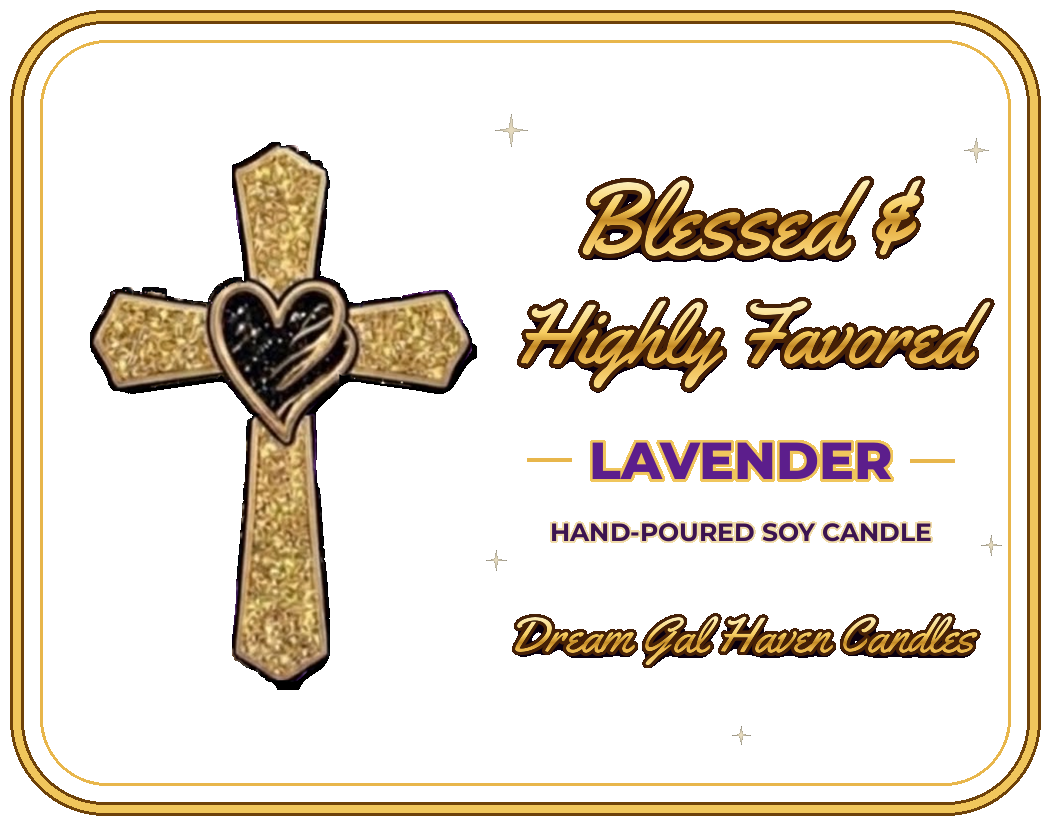
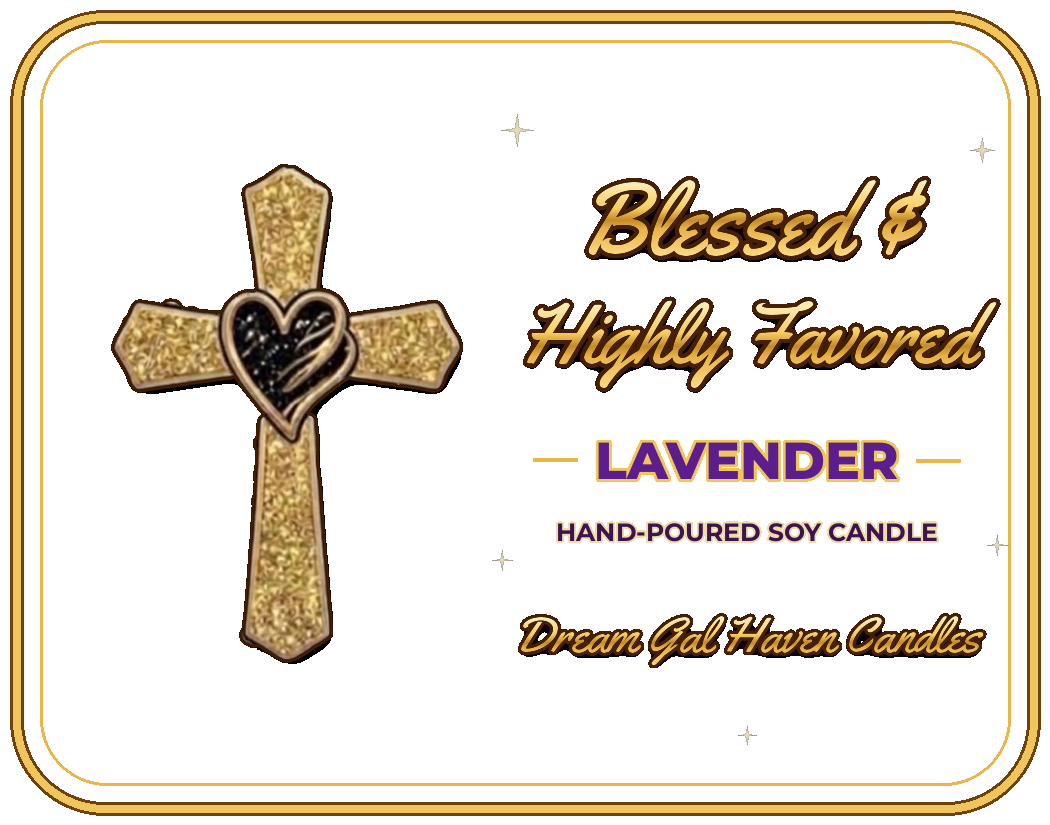
Candle label: redraw cross with clean, even outline (solid, clear, sticker sheet)
Claude-Session: https://claude.ai/code/session_013Lmse4UUbVMfZjWLLcf5XL

diff --git a/designs/candle-label/build.py b/designs/candle-label/build.py
@@ -40,9 +40,47 @@ M[y+bh//2-nh//2:y+bh//2-nh//2+nh, x+bw//2-nw//2:x+bw//2-nw//2+nw] = cv2.resize(m
 M = (cv2.resize(M, (W, H)) > 127).astype(np.uint8)
 M = cv2.dilate(M, cv2.getStructuringElement(cv2.MORPH_ELLIPSE, (int(5*k), int(5*k))))
 cx0, cy0, cw, ch = cv2.boundingRect(M)
-cross = cv2.cvtColor(src[cy0:cy0+ch, cx0:cx0+cw], cv2.COLOR_BGR2RGB)
-cmask = M[cy0:cy0+ch, cx0:cx0+cw]*255
-cross_img = Image.fromarray(cross).convert('RGBA'); cross_img.putalpha(Image.fromarray(cmask).filter(ImageFilter.GaussianBlur(1)))
+# ---- clean cross cut-out with a fresh, even outline ----
+PADC = int(30*k)
+y0c, y1c = max(cy0-PADC, 0), min(cy0+ch+PADC, H); x0c, x1c = max(cx0-PADC, 0), min(cx0+cw+PADC, W)
+crop = src[y0c:y1c, x0c:x1c]; Mc = M[y0c:y1c, x0c:x1c]
+hsv = cv2.cvtColor(crop, cv2.COLOR_BGR2HSV).astype(int)
+goldc = ((hsv[..., 0] >= 8) & (hsv[..., 0] <= 38) & (hsv[..., 1] > 35) & (hsv[..., 2] > 80)).astype(np.uint8)
+inner = cv2.erode(Mc, cv2.getStructuringElement(cv2.MORPH_ELLIPSE, (int(9*k), int(9*k))))
+shape_ = (goldc & cv2.dilate(Mc, np.ones((5, 5), np.uint8))).astype(np.uint8)
+shape_ = cv2.morphologyEx(shape_, cv2.MORPH_CLOSE, cv2.getStructuringElement(cv2.MORPH_ELLIPSE, (int(7*k)|1, int(7*k)|1)))
+n_, lb_, st_, _ = cv2.connectedComponentsWithStats(shape_)
+shape_ = (lb_ == 1 + np.argmax(st_[1:, cv2.CC_STAT_AREA])).astype(np.uint8)      # keep the cross only
+ff = shape_.copy(); cv2.floodFill(ff, np.zeros((ff.shape[0]+2, ff.shape[1]+2), np.uint8), (0, 0), 1)
+shape_ = shape_ | (1 - ff)                                                            # fill holes
+shape_ = cv2.morphologyEx(shape_, cv2.MORPH_OPEN, cv2.getStructuringElement(cv2.MORPH_ELLIPSE, (int(9*k)|1, int(9*k)|1)))   # trim bumps
+n_, lb_, st_, _ = cv2.connectedComponentsWithStats(shape_)
+shape_ = (lb_ == 1 + np.argmax(st_[1:, cv2.CC_STAT_AREA])).astype(np.uint8)
+Kb = int(19*k)|1
+opened = cv2.morphologyEx(shape_, cv2.MORPH_OPEN, cv2.getStructuringElement(cv2.MORPH_ELLIPSE, (Kb, Kb)))
+prot = (shape_ & (1 - opened)).astype(np.uint8)
+n_, lb_, st_, cen_ = cv2.connectedComponentsWithStats(prot)
+for i in range(1, n_):
+    x_, y_, w_, h_, a_ = st_[i]
+    # contact length with the main body: bumps touch along a short neck, corner slivers along two long edges
+    comp = (lb_ == i).astype(np.uint8)
+    contact = int((cv2.dilate(comp, np.ones((3, 3), np.uint8)) & opened).sum())
+    if os.environ.get('DEBUG') and a_ > 40: print('prot', i, x_, y_, w_, h_, a_, 'contact', contact)
+    if a_ > 40:
+        shape_[comp == 1] = 0
+n_, lb_, st_, _ = cv2.connectedComponentsWithStats(shape_)
+shape_ = (lb_ == 1 + np.argmax(st_[1:, cv2.CC_STAT_AREA])).astype(np.uint8)
+sm = cv2.GaussianBlur(shape_.astype(np.float32), (0, 0), 2.2*k)
+shape_ = (sm > 0.5).astype(np.uint8)                                                 # smooth edge
+ow = int(round(4.5*k))
+outline = cv2.dilate(shape_, cv2.getStructuringElement(cv2.MORPH_ELLIPSE, (2*ow+1, 2*ow+1)))
+rgb = cv2.cvtColor(crop, cv2.COLOR_BGR2RGB).astype(np.float32)
+out = np.zeros(crop.shape[:2] + (4,), np.float32)
+out[outline == 1, :3] = (62, 28, 6)                       # dark chocolate outline (matches gold text)
+out[shape_ == 1, :3] = rgb[shape_ == 1]
+alpha = cv2.GaussianBlur(outline.astype(np.float32), (0, 0), 0.8)
+out[..., 3] = alpha*255
+cross_img = Image.fromarray(out.clip(0, 255).astype(np.uint8), 'RGBA')
 Lp = src[:, :int(cx0-10*k)]; Rp = src[:, int(cx0+cw+10*k):]
 SC = 0.36
 def piece(a, top, hh):
